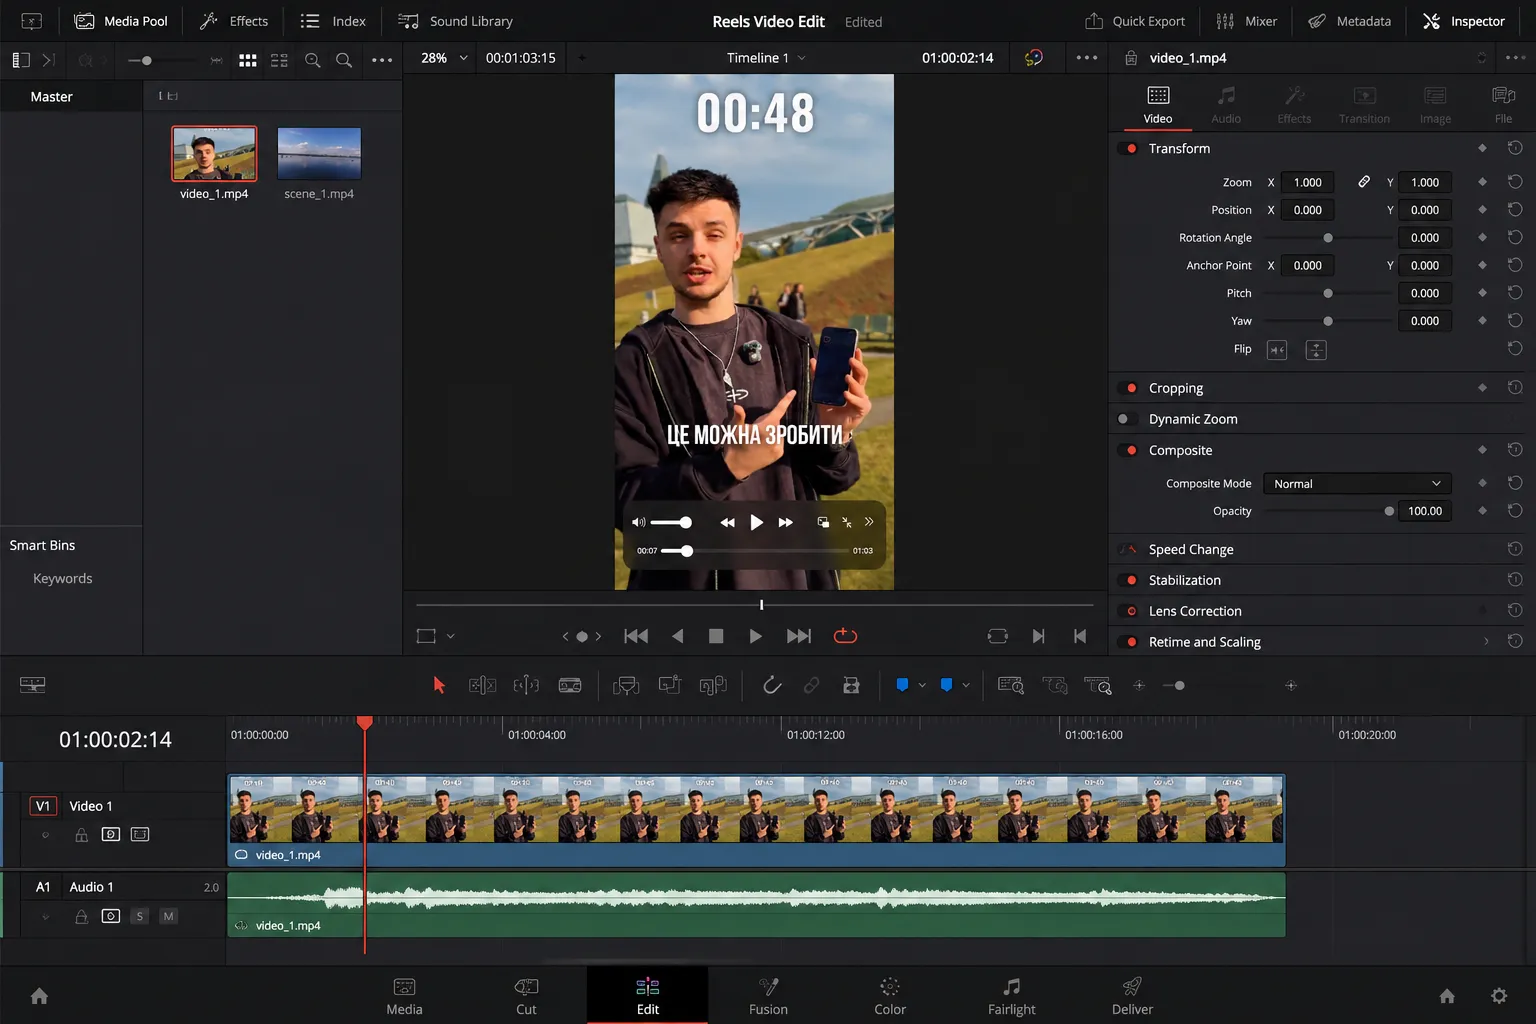
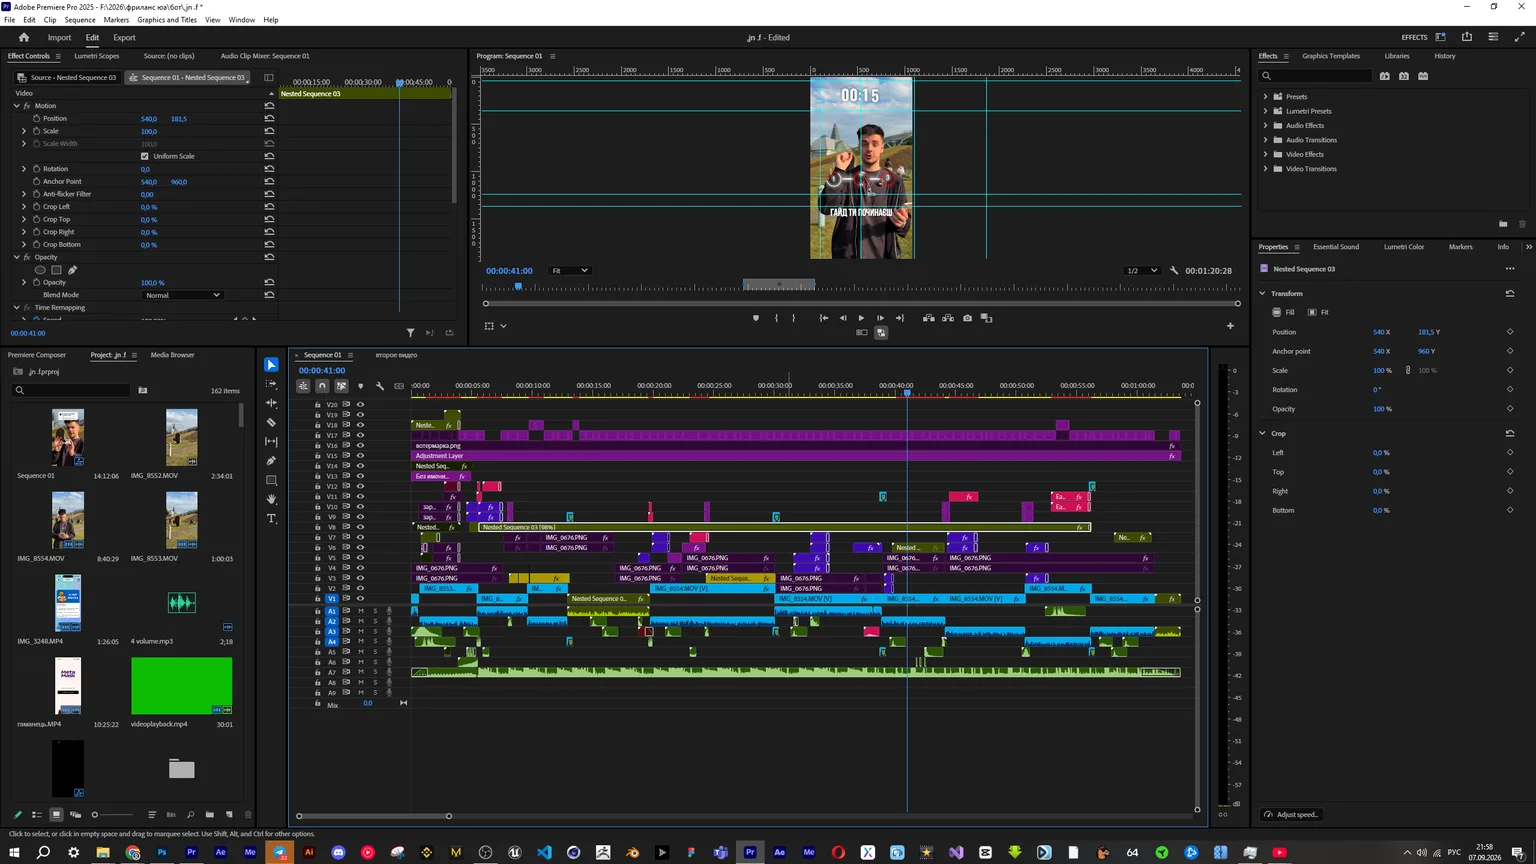
fix8

diff --git a/components/sections/ServicesSection.tsx b/components/sections/ServicesSection.tsx
@@ -59,6 +59,7 @@ interface ServiceCategory {
   sliderBefore: string;
   sliderAfter: string;
   sliderAfterVideo?: string;
+  sliderAspect?: string;
   items: number[];
 }
 
@@ -89,9 +90,10 @@ const serviceCategories: ServiceCategory[] = [
     emoji: "🎬",
     count: 6,
     sliderKey: "services.video.slider",
-    sliderBefore: "/media/services/video-poster.webp",
-    sliderAfter: "/media/services/video-poster.webp",
+    sliderBefore: "/media/services/video-poster.webp?v=2",
+    sliderAfter: "/media/services/video-poster.webp?v=2",
     sliderAfterVideo: "/media/cases/nikita-sheremet-crypto/process-3.mp4",
+    sliderAspect: "aspect-video",
     items: [1, 2, 3, 4, 5, 6],
   },
 ];
@@ -228,6 +230,7 @@ export default function ServicesSection() {
               transition={{ duration: 0.6, ease: [0.22, 1, 0.36, 1] }}
               className="service-modal relative w-[92vw] max-w-6xl overflow-y-auto rounded-3xl"
               style={{ maxHeight: 'calc(var(--vh, 1vh) * 88)', overscrollBehavior: 'contain' }}
+              data-lenis-prevent
               onClick={(e) => e.stopPropagation()}
             >
               {/* Close button */}
@@ -291,6 +294,7 @@ export default function ServicesSection() {
                         beforeSrc={activeCategory.sliderBefore}
                         afterSrc={activeCategory.sliderAfter}
                         afterVideo={activeCategory.sliderAfterVideo}
+                        aspectClassName={activeCategory.sliderAspect}
                         beforeAlt="Before"
                         afterAlt="After"
                       />

diff --git a/components/sections/TestimonialsSection.tsx b/components/sections/TestimonialsSection.tsx
@@ -402,6 +402,7 @@ function CardContent({
           className={
             isModal ? "relative" : "relative min-h-0 flex-1 overflow-y-auto pr-1 text-pretty"
           }
+          data-lenis-prevent
         >
           <Quote
             size={16}
@@ -591,6 +592,7 @@ function TestimonialModal({
         ref={contentRef}
         onClick={(e) => e.stopPropagation()}
         className="max-h-[90svh] w-[min(94vw,860px)] overflow-y-auto rounded-3xl border border-border bg-surface p-5 shadow-[0_40px_120px_rgba(0,0,0,0.6)] sm:p-8"
+        data-lenis-prevent
       >
         <CardContent item={item} name={name} variant="modal" />
       </div>

diff --git a/components/sections/PricingSection.tsx b/components/sections/PricingSection.tsx
@@ -154,6 +154,7 @@ export default function PricingSection() {
                 transition={{ duration: 0.3, ease: [0.22, 1, 0.36, 1] }}
                 className="w-[88vw] max-w-md max-h-[80svh] overflow-y-auto"
                 style={{ overscrollBehavior: 'contain' }}
+                data-lenis-prevent
                 onClick={(e) => e.stopPropagation()}
               >
                 <div className="pricing-modal-panel relative bg-surface-elevated border border-border rounded-2xl p-6 shadow-[0_24px_64px_rgba(0,0,0,0.5)]" onClick={(e) => e.stopPropagation()}>
